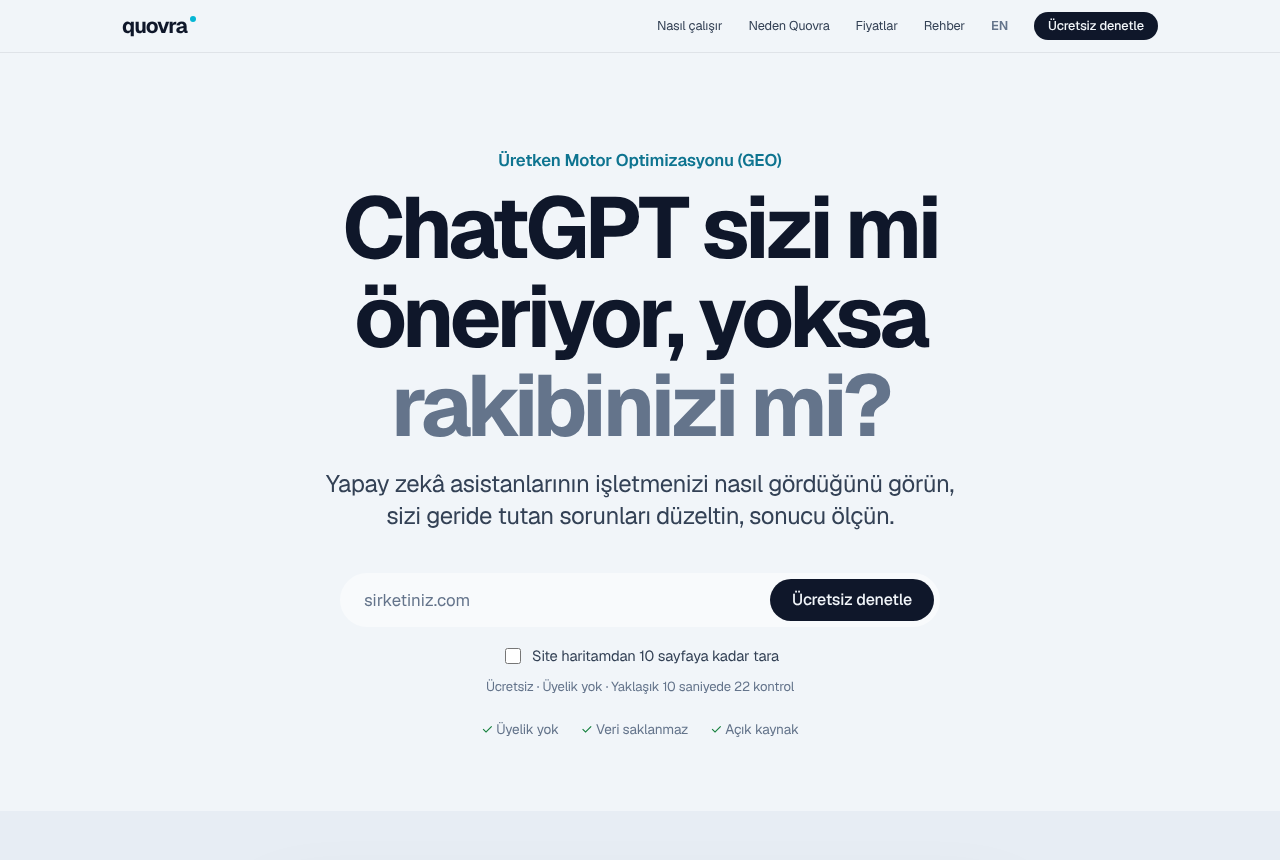
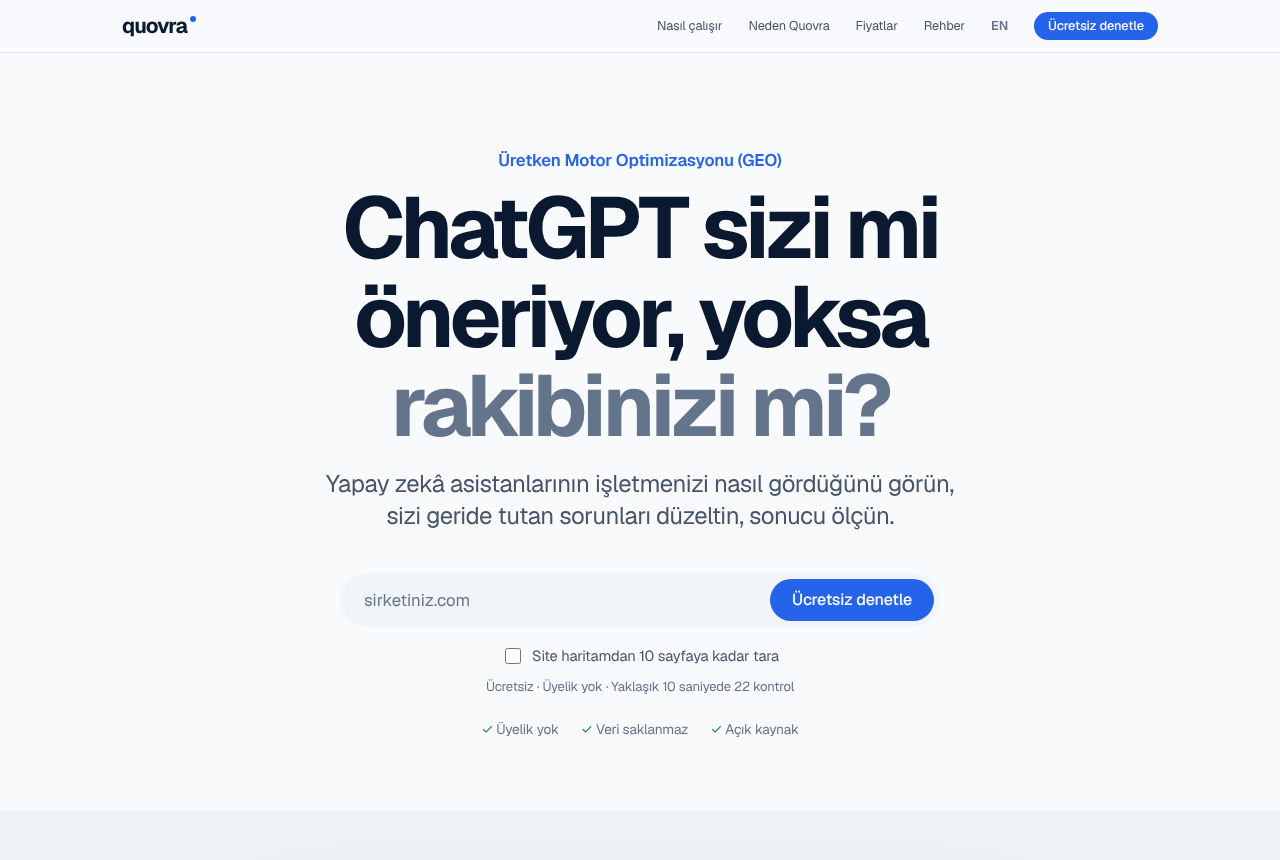
Palette: Deep Midnight, Electric Cobalt, Ice Frost, Slate Gray text
Claude-Session: https://claude.ai/code/session_018ku81kW5sQXWoDNA6aynBd

Changed region(s): [[0.5938, 0.6651, 0.75, 0.7256], [0.375, 0.1814, 0.625, 0.2116], [0.8125, 0.0, 0.9062, 0.0605]]

diff --git a/src/app/globals.css b/src/app/globals.css
@@ -6,28 +6,29 @@
 
 /* ---------- Tokens ---------- */
 :root {
-  /* 60 · Alabaster White */
-  --bg: #f1f5f9;
-  --bg-alt: #e7edf4;
-  --tile: #f8fafc;
+  /* Ice Frost background */
+  --bg: #f8fafc;
+  --bg-alt: #eef2f7;
+  --tile: #f1f5f9;
   --tile-on-alt: #f8fafc;
-  /* 30 · Deep Ocean */
-  --ocean: #0f172a;
-  --ocean-2: #1e293b;
-  --navy: #0f172a;
-  --navy-hover: #1e293b;
-  --ink: #0f172a;
-  --ink-2: #334155;
+  /* Deep Midnight Blue: headings and dark bands */
+  --ocean: #0a192f;
+  --ocean-2: #112240;
+  --ink: #0a192f;
+  /* Slate Gray: body text */
+  --ink-2: #475569;
   --muted: #64748b;
   --hair: #cbd5e1;
-  --hair-soft: rgb(15 23 42 / 0.08);
-  /* 10 · Neon Cyan (bright for graphics and dark surfaces, deeper shade for small text on light) */
-  --cyan: #06b6d4;
-  --accent: #0e7490;
-  --accent-hover: #155e75;
-  --accent-soft: rgb(6 182 212 / 0.12);
-  --brand-dot: #06b6d4;
-  --mark: rgb(6 182 212 / 0.2);
+  --hair-soft: rgb(10 25 47 / 0.08);
+  /* Electric Cobalt: buttons, links, accents */
+  --navy: #2563eb;
+  --navy-hover: #1d4ed8;
+  --cyan: #2563eb;
+  --accent: #2563eb;
+  --accent-hover: #1d4ed8;
+  --accent-soft: rgb(37 99 235 / 0.09);
+  --brand-dot: #3b82f6;
+  --mark: rgb(37 99 235 / 0.14);
   --pass: #15803d;
   --warn: #b45309;
   --fail: #be123c;
@@ -37,38 +38,39 @@
   --sans: var(--font-sans), -apple-system, BlinkMacSystemFont, "Helvetica Neue", sans-serif;
   --display: var(--font-display), -apple-system, BlinkMacSystemFont, "Helvetica Neue", sans-serif;
   --mono: var(--font-mono), ui-monospace, "SF Mono", Menlo, monospace;
-  --nav-bg: rgb(241 245 249 / 0.8);
+  --nav-bg: rgb(248 250 252 / 0.82);
 }
 @media (prefers-color-scheme: dark) {
   :root:not([data-theme="light"]) {
-    --bg: #0f172a;
-    --bg-alt: #0b1222;
-    --tile: #1e293b;
-    --tile-on-alt: #172033;
-    --ocean: #0b1222;
-    --ocean-2: #1e293b;
-    --navy: #06b6d4;
-    --navy-hover: #22d3ee;
-    --ink: #f1f5f9;
-    --ink-2: #cbd5e1;
-    --muted: #94a3b8;
-    --hair: #334155;
-    --hair-soft: rgb(241 245 249 / 0.08);
-    --accent: #22d3ee;
-    --accent-hover: #67e8f9;
-    --accent-soft: rgb(6 182 212 / 0.14);
-    --mark: rgb(6 182 212 / 0.28);
+    --bg: #0a192f;
+    --bg-alt: #081527;
+    --tile: #112240;
+    --tile-on-alt: #0f1f3a;
+    --ocean: #071426;
+    --ocean-2: #112240;
+    --ink: #e6edf7;
+    --ink-2: #a8b2d1;
+    --muted: #8892b0;
+    --hair: #233554;
+    --hair-soft: rgb(230 237 247 / 0.08);
+    --navy: #2563eb;
+    --navy-hover: #3b82f6;
+    --cyan: #3b82f6;
+    --accent: #60a5fa;
+    --accent-hover: #93c5fd;
+    --accent-soft: rgb(59 130 246 / 0.14);
+    --mark: rgb(59 130 246 / 0.26);
     --pass: #4ade80;
     --warn: #fbbf24;
     --fail: #fb7185;
-    --nav-bg: rgb(15 23 42 / 0.8);
+    --nav-bg: rgb(10 25 47 / 0.82);
   }
 }
 
 /* ---------- Base ---------- */
 * { box-sizing: border-box; }
 html { -webkit-text-size-adjust: 100%; scroll-behavior: smooth; scroll-padding-top: 64px; }
-body { margin: 0; background: var(--bg); color: var(--ink); font-family: var(--sans); font-size: 17px; line-height: 1.5; letter-spacing: -0.01em; -webkit-font-smoothing: antialiased; }
+body { margin: 0; background: var(--bg); color: var(--ink-2); font-family: var(--sans); font-size: 17px; line-height: 1.5; letter-spacing: -0.01em; -webkit-font-smoothing: antialiased; }
 a { color: var(--accent); text-decoration: none; }
 a:hover { text-decoration: underline; }
 code, pre { font-family: var(--mono); font-size: 0.82em; }
@@ -80,14 +82,17 @@ code, pre { font-family: var(--mono); font-size: 0.82em; }
 .muted { color: var(--muted); }
 .small { font-size: 0.82rem; }
 
+/* Headings in Deep Midnight, running text in Slate Gray */
+h1, h2, h3, h4, .logo, .price, .stat, .meter-score, .market-fact, .climb-stats dd, .inv-metrics strong { color: var(--ink); }
+
 /* ---------- Buttons & fields ---------- */
-.btn { display: inline-block; border: 0; border-radius: 980px; background: var(--navy); color: var(--bg); padding: 11px 22px; font: 500 1rem/1.2 var(--sans); letter-spacing: -0.01em; cursor: pointer; text-align: center; white-space: nowrap; transition: background 150ms; }
+.btn { display: inline-block; border: 0; border-radius: 980px; background: var(--navy); color: #ffffff; padding: 11px 22px; font: 500 1rem/1.2 var(--sans); letter-spacing: -0.01em; cursor: pointer; text-align: center; white-space: nowrap; transition: background 150ms; }
 .btn:hover { background: var(--navy-hover); text-decoration: none; }
 .btn:disabled { opacity: 0.5; cursor: progress; }
 .btn.ghost { background: transparent; color: var(--accent); box-shadow: inset 0 0 0 1px var(--accent); }
 .btn.ghost:hover { background: var(--accent-soft); color: var(--accent); }
-.btn.accent { background: var(--cyan); color: #0f172a; }
-.btn.accent:hover { background: #22d3ee; }
+.btn.accent { background: #2563eb; color: #ffffff; box-shadow: 0 10px 30px rgb(37 99 235 / 0.35); }
+.btn.accent:hover { background: #1d4ed8; }
 .btn.small { padding: 6px 14px; font-size: 0.8rem; }
 .btn.big { padding: 14px 28px; font-size: 1.06rem; }
 .text-link { display: inline-block; font-weight: 500; color: var(--accent); }
@@ -261,9 +266,9 @@ label { font: 600 0.88rem var(--sans); display: block; margin: 16px 0 6px; }
 .billing-toggle { display: flex; width: max-content; margin: 0 auto 36px; gap: 2px; padding: 3px; background: var(--tile); border-radius: 980px; }
 .section:nth-of-type(even) .billing-toggle { background: var(--tile-on-alt); }
 .billing-toggle button { border: 0; background: transparent; color: var(--ink-2); padding: 8px 18px; border-radius: 980px; font: 500 0.9rem var(--sans); cursor: pointer; }
-.billing-toggle button.on { background: var(--navy); color: var(--bg); }
+.billing-toggle button.on { background: var(--navy); color: #ffffff; }
 .save { font-size: 0.75rem; color: var(--pass); margin-left: 4px; }
-.billing-toggle button.on .save { color: var(--cyan); }
+.billing-toggle button.on .save { color: #93c5fd; }
 .plans { display: grid; grid-template-columns: repeat(4, 1fr); gap: 14px; }
 .plan { position: relative; display: flex; flex-direction: column; gap: 8px; padding: 32px 24px 26px; min-width: 0; }
 .plan.featured { box-shadow: inset 0 0 0 2px var(--cyan); }
@@ -308,9 +313,9 @@ details.faq p { margin: 0 0 24px; color: var(--muted); max-width: 700px; font-si
 
 /* ---------- Final CTA ---------- */
 .final-cta { padding: 0 0 112px; background: var(--bg); }
-.final-inner { text-align: center; background: radial-gradient(600px 300px at 80% 0%, rgb(6 182 212 / 0.18), transparent 70%), #0f172a; color: #f1f5f9; border-radius: 36px; padding: 88px 32px; }
-.final-cta h2 { font: 700 clamp(2.2rem, 5vw, 3.8rem)/1.05 var(--display); letter-spacing: -0.05em; margin: 0 auto 14px; max-width: 760px; color: #f1f5f9; }
-.final-cta p { margin: 0 0 30px; color: #94a3b8; font-size: 1.2rem; }
+.final-inner { text-align: center; background: radial-gradient(600px 300px at 80% 0%, rgb(37 99 235 / 0.18), transparent 70%), #0a192f; color: #e6edf7; border-radius: 36px; padding: 88px 32px; }
+.final-cta h2 { font: 700 clamp(2.2rem, 5vw, 3.8rem)/1.05 var(--display); letter-spacing: -0.05em; margin: 0 auto 14px; max-width: 760px; color: #e6edf7; }
+.final-cta p { margin: 0 0 30px; color: #8892b0; font-size: 1.2rem; }
 
 /* ---------- Footer ---------- */
 .site-footer { background: var(--bg-alt); padding: 48px 0 26px; font-size: 0.8rem; color: var(--muted); }
@@ -381,11 +386,11 @@ pre.code { background: var(--bg); border-radius: var(--radius-sm); padding: 16px
 .grid { display: grid; gap: 14px; margin-top: 14px; }
 .grid > * { min-width: 0; }
 .print-gap { margin-top: 14px; }
-.upsell { margin-top: 28px; display: grid; grid-template-columns: 1fr minmax(260px, 400px); gap: 24px; align-items: center; background: #0f172a; color: #f1f5f9; padding: 34px 36px; }
-.upsell h3 { color: #f1f5f9; }
+.upsell { margin-top: 28px; display: grid; grid-template-columns: 1fr minmax(260px, 400px); gap: 24px; align-items: center; background: #0a192f; color: #e6edf7; padding: 34px 36px; }
+.upsell h3 { color: #e6edf7; }
 .upsell p { color: #a1a1a6; }
-.upsell .field { background: #1e293b; border-color: #334155; color: #f1f5f9; }
-.upsell .btn { background: var(--cyan); color: #0f172a; }
+.upsell .field { background: #112240; border-color: #233554; color: #e6edf7; }
+.upsell .btn { background: #2563eb; color: #ffffff; }
 .upsell .lead-done { color: #7ee2a0; }
 @media (max-width: 720px) { .upsell { grid-template-columns: 1fr; } }
 .lead-form { display: flex; flex-wrap: wrap; gap: 8px; }
@@ -500,11 +505,11 @@ pre.code { background: var(--bg); border-radius: var(--radius-sm); padding: 16px
 .vision-inner { max-width: 900px; margin: 0 auto; }
 .vision-title { font: 700 clamp(2.4rem, 5.6vw, 4.4rem)/1.04 var(--display); letter-spacing: -0.055em; margin: 0 0 28px; }
 .vision-body { font-size: clamp(1.1rem, 1.8vw, 1.35rem); line-height: 1.5; color: var(--muted); max-width: 760px; margin: 0 auto; letter-spacing: -0.015em; }
-.vision-mission { display: inline-block; margin: 36px 0 0; padding: 12px 22px; border-radius: 980px; background: rgb(6 182 212 / 0.14); color: #67e8f9; font-weight: 600; letter-spacing: -0.015em; }
+.vision-mission { display: inline-block; margin: 36px 0 0; padding: 12px 22px; border-radius: 980px; background: rgb(37 99 235 / 0.14); color: #93c5fd; font-weight: 600; letter-spacing: -0.015em; }
 .pillars { list-style: none; margin: 72px 0 0; padding: 0; display: grid; grid-template-columns: repeat(3, 1fr); gap: 18px; text-align: left; }
 .pillars li { padding: 32px 28px; background: var(--tile); border-radius: var(--radius); }
 .pillars h3 { font: 700 1.5rem var(--display); letter-spacing: -0.045em; margin: 0 0 8px; }
-.pillars h3::before { content: ""; display: block; width: 10px; height: 10px; border-radius: 50%; background: var(--brand-dot); margin-bottom: 18px; box-shadow: 0 0 0 6px rgb(6 182 212 / 0.16); }
+.pillars h3::before { content: ""; display: block; width: 10px; height: 10px; border-radius: 50%; background: var(--brand-dot); margin-bottom: 18px; box-shadow: 0 0 0 6px rgb(37 99 235 / 0.16); }
 .pillars p { margin: 0; color: var(--muted); }
 @media (max-width: 760px) { .pillars { grid-template-columns: 1fr; } }
 
@@ -517,9 +522,9 @@ pre.code { background: var(--bg); border-radius: var(--radius-sm); padding: 16px
 .climb-week { font: 500 0.8rem var(--mono); color: var(--accent); white-space: nowrap; background: var(--accent-soft); padding: 4px 10px; border-radius: 980px; }
 .climb-list { position: relative; list-style: none; margin: 0; padding: 0; }
 .climb-list li { position: absolute; left: 0; right: 0; top: 0; height: 56px; display: flex; align-items: center; gap: 14px; padding: 0 18px; border-radius: 14px; background: var(--bg-alt); transition: transform 0.9s cubic-bezier(0.65, 0, 0.35, 1), background 0.3s; }
-.climb-list li.you { z-index: 2; background: #0f172a; color: #f1f5f9; box-shadow: 0 12px 30px rgb(6 182 212 / 0.25), 0 0 0 2px var(--cyan); }
+.climb-list li.you { z-index: 2; background: #0a192f; color: #e6edf7; box-shadow: 0 12px 30px rgb(37 99 235 / 0.25), 0 0 0 2px var(--cyan); }
 .climb-rank { width: 26px; height: 26px; display: grid; place-items: center; border-radius: 50%; font: 600 0.82rem var(--mono); background: var(--bg); color: var(--muted); flex: none; }
-.climb-list li.you .climb-rank { background: var(--cyan); color: #0f172a; }
+.climb-list li.you .climb-rank { background: #2563eb; color: #ffffff; }
 .climb-name { font-weight: 600; letter-spacing: -0.01em; }
 .climb-up { margin-left: auto; color: var(--brand-dot); font-weight: 700; animation: bob 1.2s ease-in-out infinite; }
 @keyframes bob { 50% { transform: translateY(-4px); } }
@@ -533,12 +538,12 @@ pre.code { background: var(--bg); border-radius: var(--radius-sm); padding: 16px
 .climb-caption { font-size: 0.78rem; color: var(--muted); margin: 14px 4px 0; }
 
 /* ---------- Code showcase (always dark, like a real editor) ---------- */
-.section.code-section { background: #0f172a; color: #f1f5f9; }
-.code-section .section-title { color: #f1f5f9; }
-.code-section .section-lead { color: #94a3b8; }
-.code-section .sec-rule { color: #06b6d4; }
-.editor { max-width: 900px; margin: 0 auto; background: #0b1222; border-radius: 22px; overflow: hidden; box-shadow: 0 0 0 1px rgb(255 255 255 / 0.07), 0 40px 120px rgb(6 182 212 / 0.12); text-align: left; }
-.editor-bar { display: flex; align-items: center; gap: 16px; padding: 12px 16px; background: #1e293b; border-bottom: 1px solid rgb(255 255 255 / 0.06); }
+.section.code-section { background: #0a192f; color: #e6edf7; }
+.code-section .section-title { color: #e6edf7; }
+.code-section .section-lead { color: #8892b0; }
+.code-section .sec-rule { color: #3b82f6; }
+.editor { max-width: 900px; margin: 0 auto; background: #071426; border-radius: 22px; overflow: hidden; box-shadow: 0 0 0 1px rgb(255 255 255 / 0.07), 0 40px 120px rgb(37 99 235 / 0.12); text-align: left; }
+.editor-bar { display: flex; align-items: center; gap: 16px; padding: 12px 16px; background: #112240; border-bottom: 1px solid rgb(255 255 255 / 0.06); }
 .dots { display: flex; gap: 7px; flex: none; }
 .dots i { width: 12px; height: 12px; border-radius: 50%; background: #ff5f57; }
 .dots i:nth-child(2) { background: #febc2e; }
@@ -558,12 +563,12 @@ pre.code { background: var(--bg); border-radius: var(--radius-sm); padding: 16px
 @media (prefers-reduced-motion: reduce) { .editor-body.typing .ln { opacity: 1; animation: none; } }
 .editor-body:not(.typing) .ln { opacity: 0; }
 .tk-com { color: #6e7681; font-style: italic; }
-.tk-key { color: #67e8f9; }
+.tk-key { color: #93c5fd; }
 .tk-str { color: #a5d6a7; }
 .tk-num { color: #f2b56b; }
 .tk-flag { color: #d2a8ff; }
 .tk-url { color: #a5d6a7; text-decoration: underline; text-decoration-color: rgb(165 214 167 / 0.4); }
-.tk-prompt { color: #06b6d4; font-weight: 700; margin-right: 2px; }
+.tk-prompt { color: #3b82f6; font-weight: 700; margin-right: 2px; }
 .tk-dim { color: #8b949e; }
 .tk-add { display: inline-block; width: 100%; color: #7ee2a0; background: rgb(46 160 67 / 0.16); }
 .tk-del { display: inline-block; width: 100%; color: #ff9b94; background: rgb(248 81 73 / 0.14); text-decoration: line-through; text-decoration-color: rgb(255 155 148 / 0.5); }
@@ -572,18 +577,18 @@ pre.code { background: var(--bg); border-radius: var(--radius-sm); padding: 16px
 .footer-grid .logo { color: var(--ink); }
 
 /* ---------- Deep Ocean bands (the 30) ---------- */
-.section.vision { background: radial-gradient(900px 420px at 50% -10%, rgb(6 182 212 / 0.16), transparent 70%), #0f172a; color: #f1f5f9; }
-.vision .sec-rule { color: #06b6d4; }
-.vision-title { color: #f1f5f9; }
-.vision-body { color: #94a3b8; }
+.section.vision { background: radial-gradient(900px 420px at 50% -10%, rgb(37 99 235 / 0.16), transparent 70%), #0a192f; color: #e6edf7; }
+.vision .sec-rule { color: #3b82f6; }
+.vision-title { color: #e6edf7; }
+.vision-body { color: #8892b0; }
 .vision .pillars li { background: rgb(255 255 255 / 0.04); box-shadow: inset 0 0 0 1px rgb(255 255 255 / 0.06); }
-.vision .pillars h3 { color: #f1f5f9; }
-.vision .pillars p { color: #94a3b8; }
-.site-footer { background: #0f172a; color: #94a3b8; }
-.site-footer .footer-grid h4, .site-footer .logo, .site-footer .made-by strong { color: #f1f5f9; }
-.site-footer .footer-grid a { color: #94a3b8; }
-.site-footer .footer-grid a:hover { color: #06b6d4; }
-.site-footer .made-by { color: #94a3b8 !important; }
-.site-footer .footer-bottom { border-top-color: #1e293b; }
+.vision .pillars h3 { color: #e6edf7; }
+.vision .pillars p { color: #8892b0; }
+.site-footer { background: #0a192f; color: #8892b0; }
+.site-footer .footer-grid h4, .site-footer .logo, .site-footer .made-by strong { color: #e6edf7; }
+.site-footer .footer-grid a { color: #8892b0; }
+.site-footer .footer-grid a:hover { color: #3b82f6; }
+.site-footer .made-by { color: #8892b0 !important; }
+.site-footer .footer-bottom { border-top-color: #112240; }
 .logo-dot, .made-by strong::after { background: var(--cyan) !important; }
-.site-footer .footer-grid .logo { color: #f1f5f9; }
+.site-footer .footer-grid .logo { color: #e6edf7; }

diff --git a/src/lib/og.tsx b/src/lib/og.tsx
@@ -7,11 +7,11 @@ export const OG_SIZE = { width: 1200, height: 630 };
 /** Share image in the Softmain family: icy background, navy orb with a blue rim, blue dot wordmark. */
 export function ogImage(lang: Lang) {
   const t = LANDING[lang].hero;
-  const ink = "#0f172a";
-  const blue = "#06b6d4";
+  const ink = "#0a192f";
+  const blue = "#3b82f6";
   return new ImageResponse(
     (
-      <div style={{ width: "100%", height: "100%", display: "flex", flexDirection: "column", padding: "64px 72px", background: "#f1f5f9", color: ink, position: "relative" }}>
+      <div style={{ width: "100%", height: "100%", display: "flex", flexDirection: "column", padding: "64px 72px", background: "#f8fafc", color: ink, position: "relative" }}>
         <div style={{ position: "absolute", width: 560, height: 560, right: -170, top: -260, borderRadius: 9999, background: "#03080f", boxShadow: `inset -14px 24px 50px ${blue}, 0 0 90px rgba(59,190,252,0.35)` }} />
         <div style={{ display: "flex", alignItems: "flex-start", fontSize: 58, fontWeight: 900, letterSpacing: -3 }}>
           quovra
@@ -19,7 +19,7 @@ export function ogImage(lang: Lang) {
         </div>
         <div style={{ display: "flex", flexDirection: "column", marginTop: 76, fontSize: 82, lineHeight: 1.02, letterSpacing: -4, fontWeight: 900 }}>
           <span>{t.titleA}</span>
-          <span style={{ color: "#0e7490" }}>{t.titleB}</span>
+          <span style={{ color: "#2563eb" }}>{t.titleB}</span>
         </div>
         <div style={{ display: "flex", marginTop: "auto", fontSize: 20, letterSpacing: 6, color: "#687a8d", fontWeight: 700 }}>
           {"CHATGPT · GEMINI · CLAUDE · PERPLEXITY  —  BY SOFTMAIN"}

diff --git a/src/lib/badge.ts b/src/lib/badge.ts
@@ -11,7 +11,7 @@ export function badgeSvg(score: number | null, grade: string | null, label = "AI
 <title>${esc(label)}: ${esc(value)}</title>
 <linearGradient id="s" x2="0" y2="100%"><stop offset="0" stop-color="#bbb" stop-opacity=".1"/><stop offset="1" stop-opacity=".1"/></linearGradient>
 <clipPath id="r"><rect width="${w}" height="20" rx="3" fill="#fff"/></clipPath>
-<g clip-path="url(#r)"><rect width="${lw}" height="20" fill="#0f172a"/><rect x="${lw}" width="${vw}" height="20" fill="${color}"/><rect width="${w}" height="20" fill="url(#s)"/></g>
+<g clip-path="url(#r)"><rect width="${lw}" height="20" fill="#0a192f"/><rect x="${lw}" width="${vw}" height="20" fill="${color}"/><rect width="${w}" height="20" fill="url(#s)"/></g>
 <g fill="#fff" text-anchor="middle" font-family="Verdana,Geneva,DejaVu Sans,sans-serif" font-size="11">
 <text x="${lw / 2}" y="14">${esc(label)}</text><text x="${lw + vw / 2}" y="14">${esc(value)}</text></g>
 </svg>`;

diff --git a/CHANGELOG.md b/CHANGELOG.md
@@ -1,5 +1,11 @@
 # Changelog
 
+## 0.9.1
+
+### Changed
+- **New palette.** Ice Frost `#F8FAFC` for backgrounds, Deep Midnight Blue `#0A192F` for headings and the dark bands (vision, code, closing panel, footer), Electric Cobalt `#2563EB` for buttons, links and accents, and Slate Gray `#475569` for body text instead of near-black.
+- Dark mode uses Deep Midnight as its background, with Cobalt actions and soft slate text. The OG image and badge follow the palette.
+
 ## 0.9.0
 
 ### Changed
